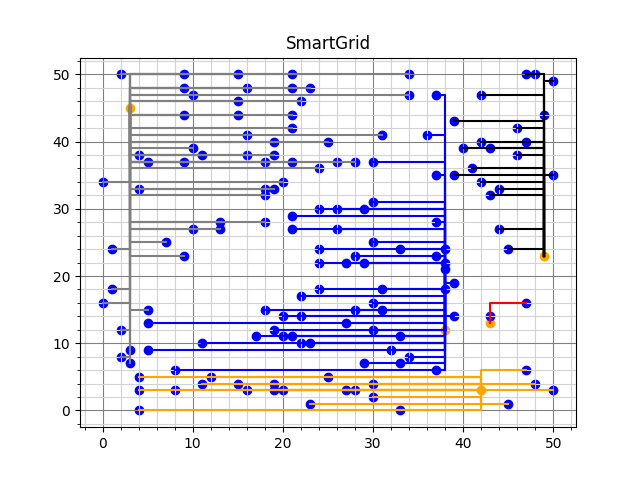
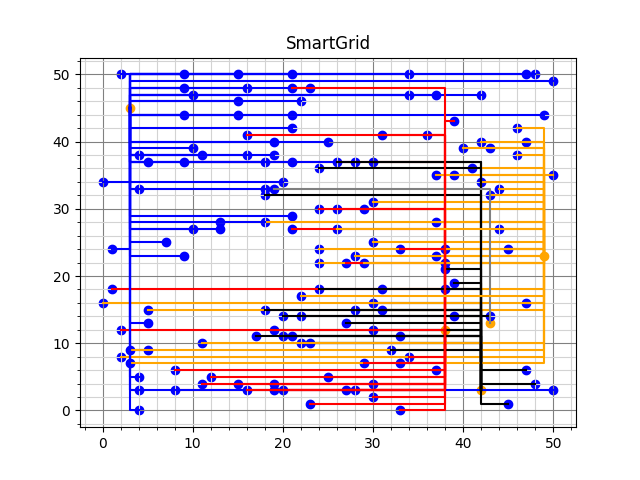
visualise apart

Changed region(s): [[0.1562, 0.125, 0.875, 0.875]]

diff --git a/code/visualisations/visualise_cables.py b/code/visualisations/visualise_cables.py
@@ -48,4 +48,51 @@ def visualise(grid):
     # plt.legend()
     plt.show()
     plt.savefig("docs/cable_visualisation.png")
+
+def visualise_apart(grid):
+        # plot battries and houses
+    for battery in grid.batteries.values():
+        # load data files
+        district_number = '1'
+        battery_file = (f"data/Huizen&Batterijen/district_{district_number}/district-{district_number}_batteries.csv")
+        house_file = (f"data/Huizen&Batterijen/district_{district_number}/district-{district_number}_houses.csv")
+
+        dfhouses = pd.read_csv(house_file)
+        dfhouses.plot(kind='scatter', x='x', y='y')
+
+
+
+        # clear the figure
+        plt.clf()
+
+        # plot grid
+        plt.title('SmartGrid')
+        plt.grid(which='minor', color='lightgrey')
+        plt.grid(which='major', color='grey')
+        plt.minorticks_on()
+
+
+        plt.scatter(battery.x, battery.y, color='orange', label = "Batteries")
+        plt.scatter(dfhouses['x'], dfhouses['y'], color='blue', label = "Houses")
+
+        if battery.id == 0:
+            gridcolor = "blue"
+        elif battery.id == 1: 
+            gridcolor = "red"
+        elif battery.id == 2: 
+            gridcolor = "orange"
+        elif battery.id == 3: 
+            gridcolor = "black"
+        elif battery.id == 4: 
+            gridcolor = "gray"
+
+        # plot cables 
+        for house in battery.houses.values():
+            
+
+            plt.plot(house.cable.x, house.cable.y, color=gridcolor, linestyle="-")
+
+        # plt.legend()
+        plt.show()
+        plt.savefig(f"docs/cable_visualisation{battery.id}.png")
     

diff --git a/main.py b/main.py
@@ -76,18 +76,23 @@ if __name__ == "__main__":
     # --------------------------- greedy 2 --------------------------
     greedy2_costs = list()
     count = 0
+    best_cost = 70000
     for i in range(100):
         greedy2 = greedy.Greedy(grid1)
         greedy2.run_greedy()
         # fixed_greedy = fix_greedy.Fix_greedy(greedy2.grid)
         # fixed_greedy.run3()
         if greedy2.grid.is_valid():
-             count += 1
-             if greedy2.grid.calc_cost() < best_cost:
+            count += 1
+            if greedy2.grid.calc_cost() < best_cost:
                 best_grid = copy.deepcopy(greedy2.grid)
                 best_cost = greedy2.grid.calc_cost()
         greedy2_costs.append(greedy2.grid.calc_cost())
     print(count)
+    print(best_cost)
+    for battery in best_grid.batteries.values():
+        print('houses: ', battery.houses.values())
+        print('cap left:', battery.capacity_left())
     visualise_costs.visualise_costs(greedy2_costs, "greedy2")
 
         # --------------------------- greedy - each house to closest battery--------------------------
@@ -137,7 +142,7 @@ if __name__ == "__main__":
     #     pickle.dump(best_greedy, handle)
 
     # --------------------------- visualisation --------------------------
-    visualise_cables.visualise(greedy3.grid)
+    visualise_cables.visualise_apart(best_grid)
 
 
     # --------------------------- Hill Climber ---------------------------------

diff --git a/code/algorithms/greedy.py b/code/algorithms/greedy.py
@@ -106,9 +106,9 @@ class Greedy:
             cable1.lay_cable()
             house.add_cable(cable1)
             
-        for battery in self.grid.batteries.values():
-                print(battery.get_cum_output())
-        print('Output to batteries:')
+        # for battery in self.grid.batteries.values():
+        #         print(battery.get_cum_output())
+        # print('Output to batteries:')
         check_capacity = any(battery.capacity_reached() in self.grid.batteries for battery in self.grid.batteries.values())
         if check_capacity == False:
             print('Good')

diff --git a/code/classes/battery.py b/code/classes/battery.py
@@ -9,6 +9,7 @@ class Battery():
 
         self.houses = {}
 
+
     def add_house(self, house):
         self.houses[house.id] = house
 
